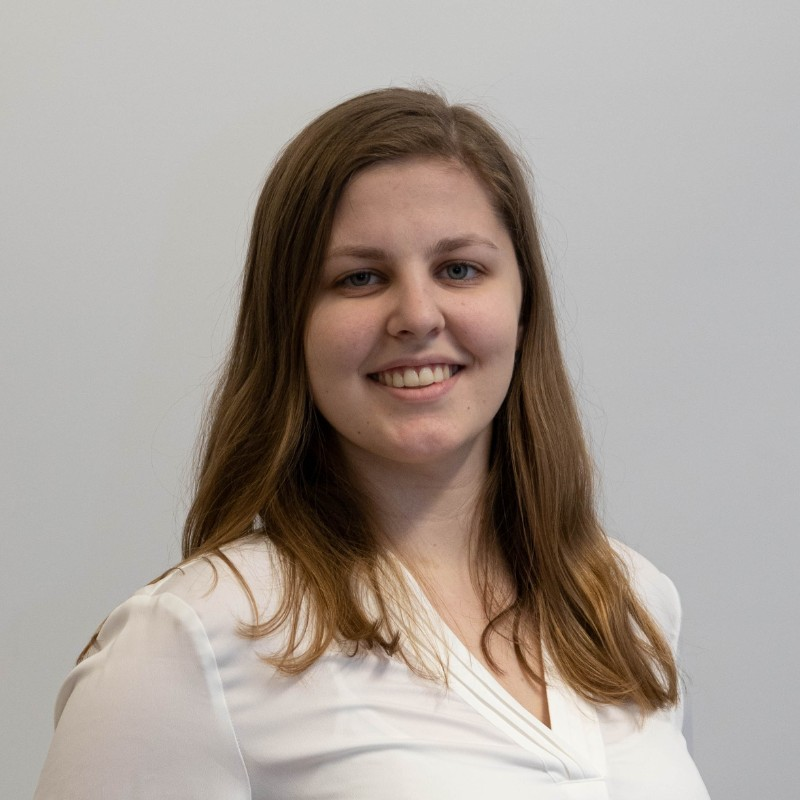
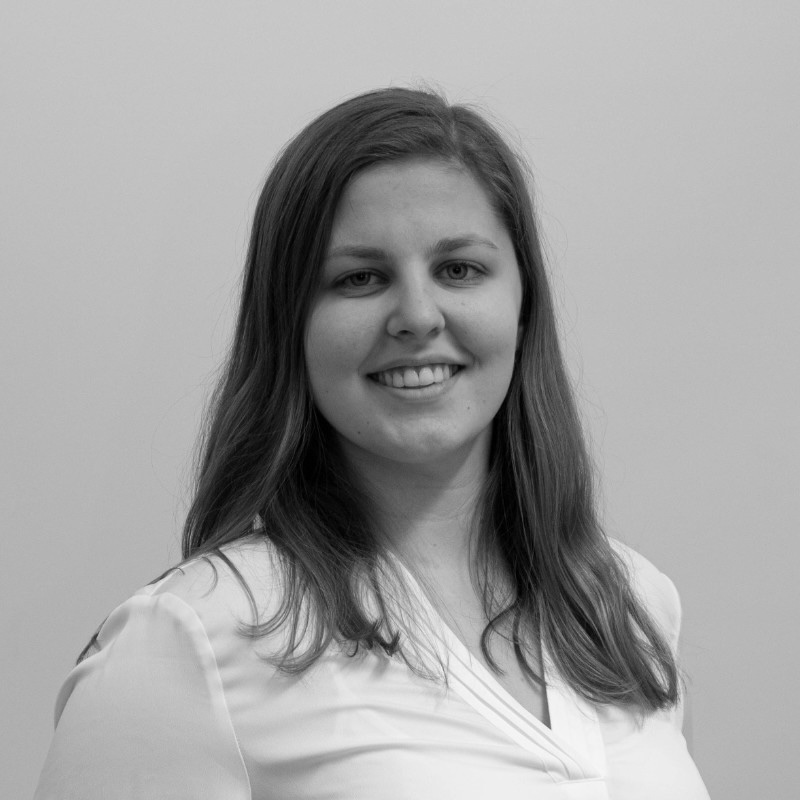
Changed images to grayscale and fixed phone number

diff --git a/src/components/Contact/Contact.jsx b/src/components/Contact/Contact.jsx
@@ -21,7 +21,7 @@ const Contact = () => {
         </li>
         <li className={styles.link}>
             <img className={styles.iconImg} src="./assets/images/phoneicon.svg" alt="Phone Icon" />
-            <p>0706 342 54 00</p>
+            <p>076 342 54 00</p>
         </li>
     </ul>
     </Fade>
